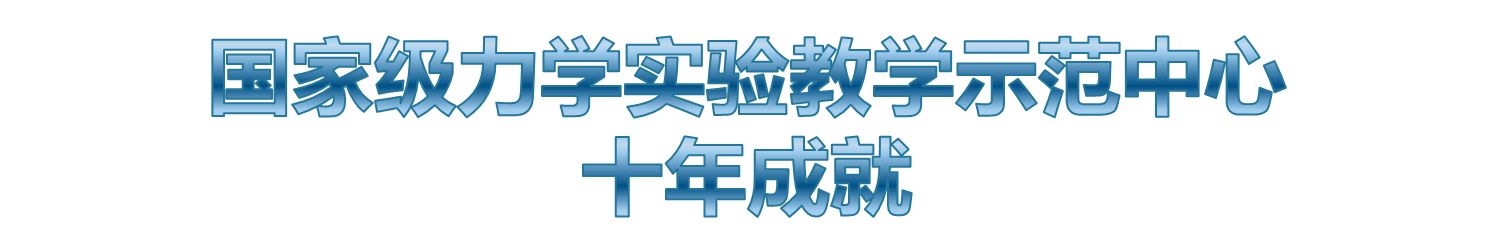
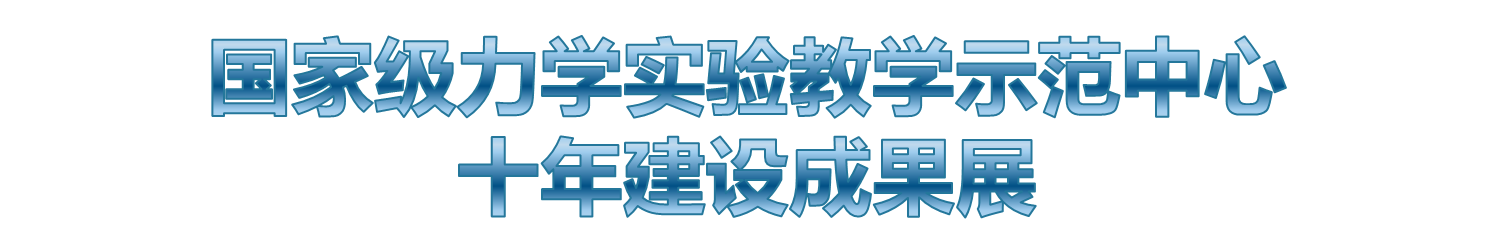
delete title1
delete title1 2005-2015
change title2 content

Changed region(s): [[0.3079, 0.5636, 0.7082, 0.9195]]

diff --git a/MediaShower/MainWindow.xaml b/MediaShower/MainWindow.xaml
@@ -25,12 +25,11 @@
             <Grid>
                 <Grid.RowDefinitions>
 
-                    <RowDefinition Height="4*"/>
+                    <RowDefinition Height="1*"/>
                     <RowDefinition Height="8*"/>
 
                 </Grid.RowDefinitions>
 
-                <Image Grid.Row="0" HorizontalAlignment="Center" Margin="-10,-1,-10,-15"  VerticalAlignment="Center"  Source="title1.png" />
                 <Image Grid.Row="1" HorizontalAlignment="Center" Margin="-15,-15,-15,-15"  VerticalAlignment="Center"  Source="title2.png"/>
             </Grid>
         </Grid>
